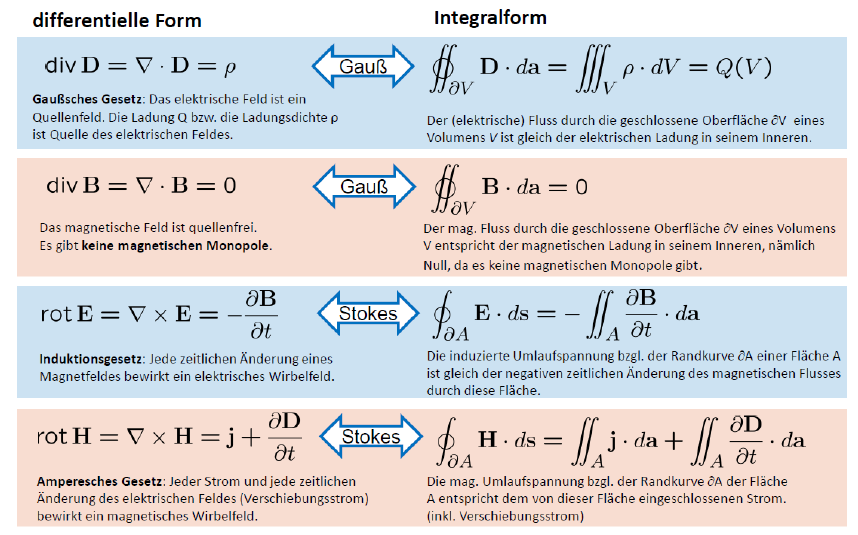
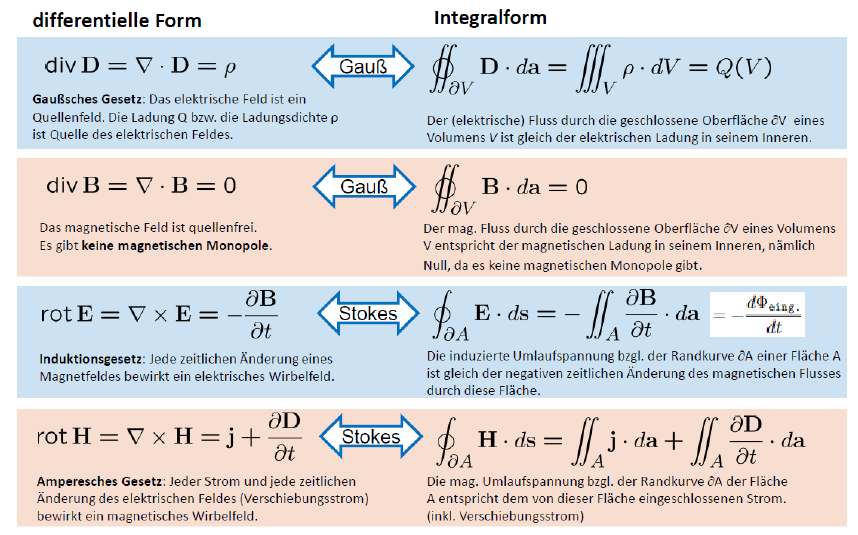
Grundlagen: rot div grad erklärung main: Maxwell auf eine Seite Maxwell: Integralsatz gekürzt kit Grafik

Changed region(s): [[0.8182, 0.5383, 0.9394, 0.628]]

diff --git a/Maxwell.tex b/Maxwell.tex
@@ -1,17 +1,18 @@
 \section{Maxwell’schen Gleichungen}
 
-\subsection{Intergralform \rn{1}, \rn{2}}
-Gauß'sches Gesetz\\
-Induktionsgesetz\\
-Durchflutungsgesetz\\
-Quellenfreiheit $B$-Feld\\
-Zusammenhang
-\begin{align*}
-    \varoiint_{A_\texttt{Hülle}} \vec{D} d \vec{A} & = \iiint_{V} \rho \cdot dV = Q_\texttt{eing.}                                                                                    \\
-    \oint_\texttt{Rand} \vec{E} d \vec{s}          & = -\dfrac{d\Phi_\texttt{eing.}}{dt} = -\frac{d}{dt} \iint \vec{B} \, d\vec{A} = u_{ind}                                          \\
-    \oint_\texttt{Rand} \vec{H} d \vec{s}          & = \iint_{A} \vec{j} d \vec{a} + \iint_{A}\frac{ \partial \vec{D}}{ \partial t} d \vec{a} = I_\texttt{eing.} + I_\texttt{versch.} \\
-    \varoiint_{A_\texttt{Hülle}} \vec{B} d \vec{A} & = 0
-\end{align*}
+% \subsection{Intergralform \rn{1}, \rn{2}}
+% Gauß'sches Gesetz\\
+% Induktionsgesetz\\
+% Durchflutungsgesetz\\
+% Quellenfreiheit $B$-Feld\\
+% Zusammenhang
+% \begin{align*}
+%     \varoiint_{A_\texttt{Hülle}} \vec{D} d \vec{A} & = \iiint_{V} \rho \cdot dV = Q_\texttt{eing.}                                                                                    \\
+%     \oint_\texttt{Rand} \vec{E} d \vec{s}          & = -\dfrac{d\Phi_\texttt{eing.}}{dt} = -\frac{d}{dt} \iint \vec{B} \, d\vec{A} = u_{ind}                                          \\
+%     \oint_\texttt{Rand} \vec{H} d \vec{s}          & = \iint_{A} \vec{j} d \vec{a} + \iint_{A}\frac{ \partial \vec{D}}{ \partial t} d \vec{a} = I_\texttt{eing.} + I_\texttt{versch.} \\
+%     \varoiint_{A_\texttt{Hülle}} \vec{B} d \vec{A} & = 0
+% \end{align*}
+\includegraphics[width=\columnwidth]{Figures/Integralsatz.png}
 
 \[
     \vec{D} = \varepsilon \cdot \vec{E} \qquad
@@ -23,13 +24,13 @@ Bei isotropen Stoffen sind $\varepsilon$ u. $\mu$ Skalare:
     \varepsilon = \varepsilon_0 \cdot \varepsilon_r \qquad \mu = \mu_0 \cdot \mu_r
 \]
 
-\subsection{Differentialform \rn{1}, \rn{2}}
-\begin{align*}
-    \opdiv \vec{D}             & = \rho                                           \\
-    \operatorname{rot} \vec{E} & = -\dfrac{\partial \vec{B}}{\partial t}          \\
-    \operatorname{rot} \vec{H} & = \vec{J} + \dfrac{\partial \vec{D}}{\partial t} \\
-    \opdiv \vec{B}             & = 0
-\end{align*}
+% \subsection{Differentialform \rn{1}, \rn{2}}
+% \begin{align*}
+%     \opdiv \vec{D}             & = \rho                                           \\
+%     \operatorname{rot} \vec{E} & = -\dfrac{\partial \vec{B}}{\partial t}          \\
+%     \operatorname{rot} \vec{H} & = \vec{J} + \dfrac{\partial \vec{D}}{\partial t} \\
+%     \opdiv \vec{B}             & = 0
+% \end{align*}
 
 \subsection{Integralsätze}
 Fundamentalsatz der Analysis\\
@@ -41,7 +42,7 @@ Stokes: innere Wirbel kompensieren $\rightarrow$ Rand betrachten
     \iint_{A} rot \vec{A} \cdot d \vec{a} & = \oint_{ \partial A} \vec{A} \cdot d \vec{r}
 \end{align*}
 
-\includegraphics[width=\columnwidth]{Figures/Integralsatz.png}
+%\includegraphics[width=\columnwidth]{Figures/Integralsatz.png}
 % \subsection{stationäre Felder (Gleichstrom)}
 
 % \begin{align*}

diff --git a/Grundlagen.tex b/Grundlagen.tex
@@ -2,10 +2,9 @@
 \subsection{mathematische}
 \subsubsection*{Divergenz/Rotation/Gradient}
 
-$\opdiv$: macht aus einem Vektor ein Skalar.\\
-$\oprot$: bildet ein Vektor auf Vektorfeld ab.\\
-$\opgrad$: bildet ein Skalar-/Gradientenfeld in ein Vektorfeld ab.
-Zeigt Richtung stärkster Zunahme des Feldes.
+$\opdiv$: Vektor $\rightarrow$ Skalar (Quelle / Senke)\\
+$\oprot$: Vektor auf Vektorfeld ( rot = 0 für E. erhaltendes Feld)\\
+$\opgrad$: Skalar-/Gradientenfeld $\rightarrow$ Vektorfeld (Richtung stärkster Feldänderung)
 \begin{align*}
     \opdiv \vec{G} & = \nabla \cdot \vec{G} = \dfrac{\partial G_x}{\partial x} + \dfrac{\partial G_y}{\partial y} + \dfrac{\partial G_z}{\partial z} \\
                    & = 0 \quad\Rightarrow \textnormal{Volumen}                                                                                       \\

diff --git a/main.tex b/main.tex
@@ -64,9 +64,11 @@
 
 % newpage
 \include{KoordinatenSysteme}
+\include{Maxwell}
+
 
 \begin{multicols*}{2}
-    \include{Maxwell}
+    % \include{Maxwell}
     \include{Felder}
     \include{Wellen}
     \include{Leitungen}
